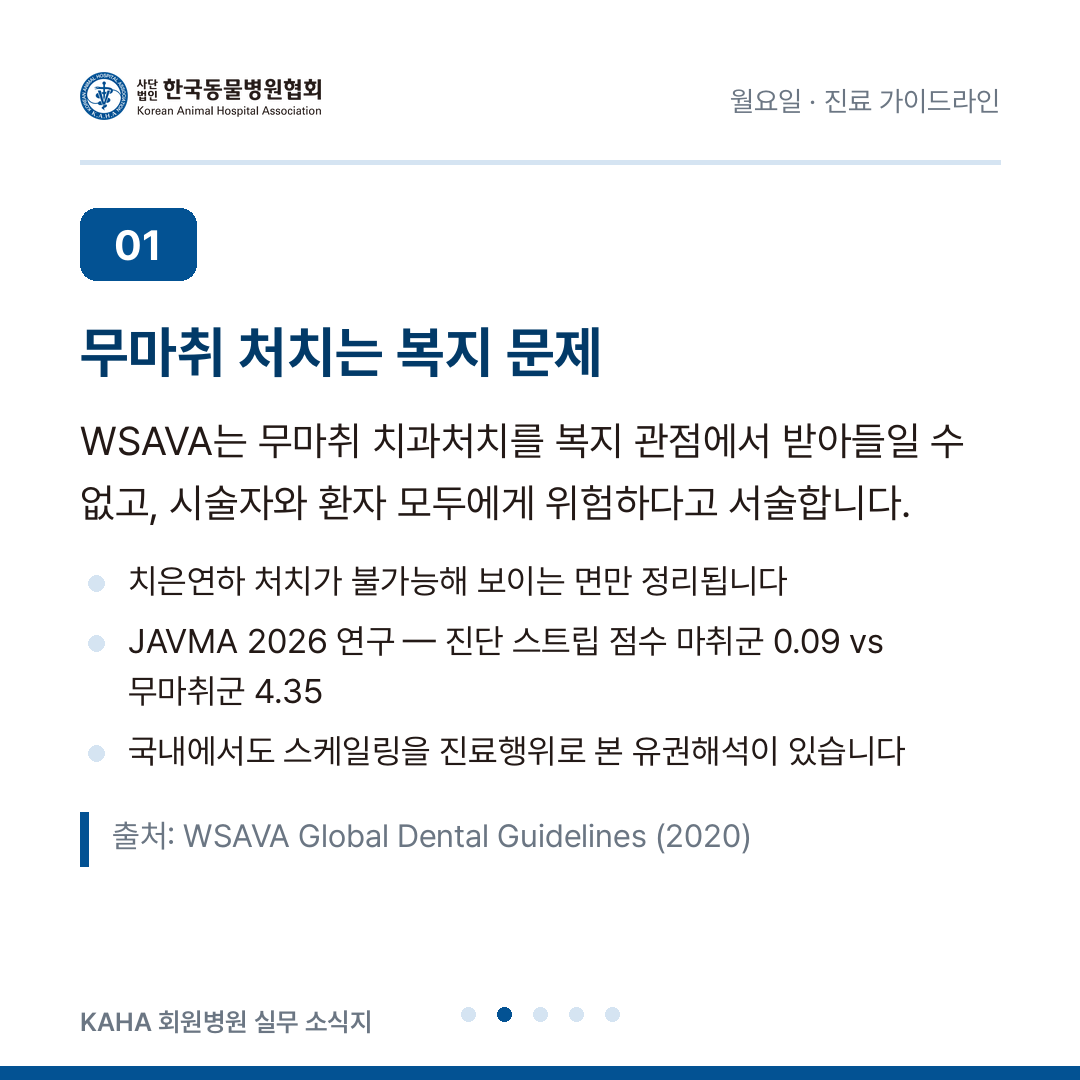
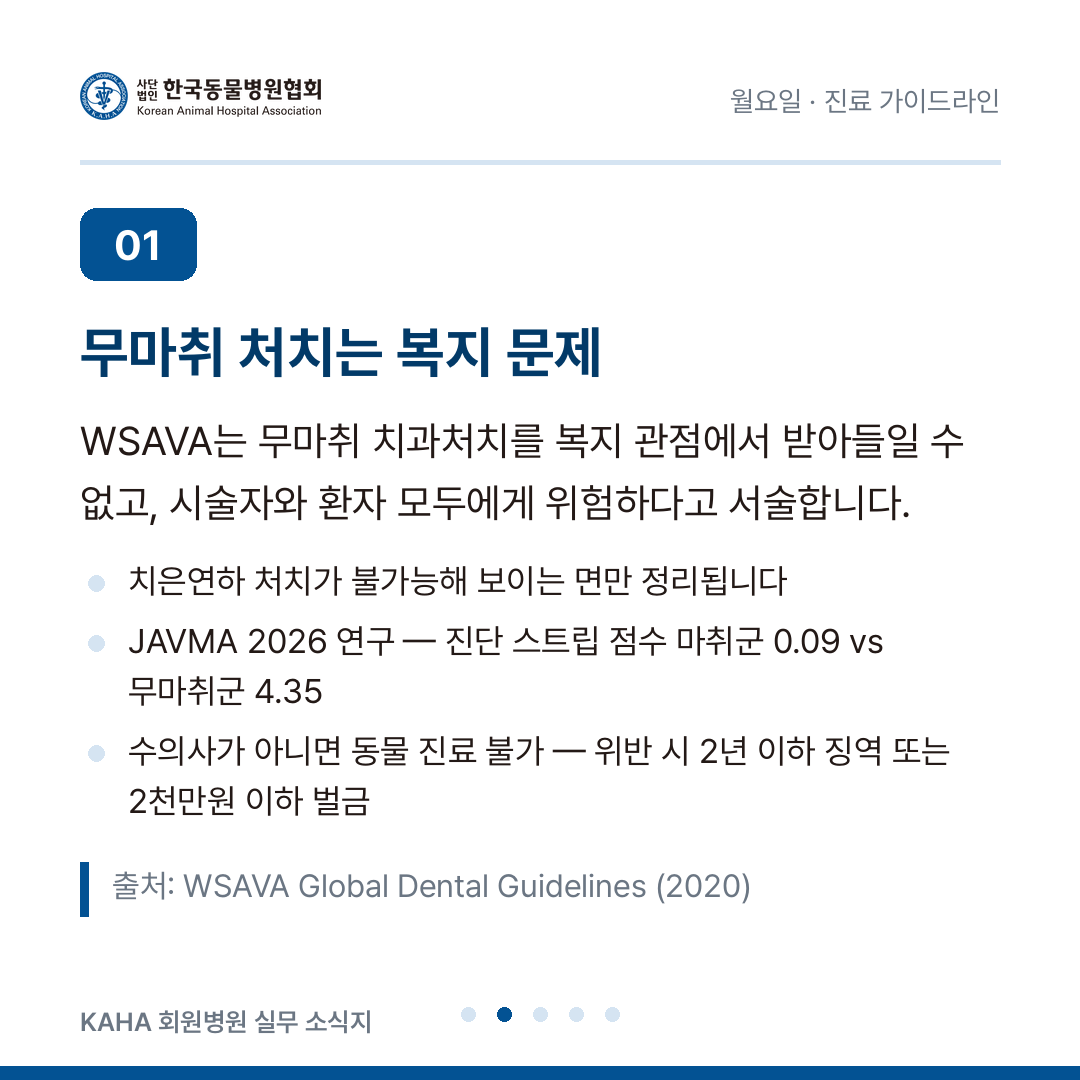
수의사법 시행령 확보 — 8/17 오류 정정 및 재발방지 규칙 신설
원장님이 시행령 전문 제공. reference/수의사법시행령.md로 저장.
이제 법·시행령·시행규칙 3단 전부 보유.

시행령 대조로 발견한 오류 1건 정정:
- 8/17 무면허 진료 예외를 "시행규칙 제8조의 두 가지뿐"으로 단정했으나
  틀림. 시행령 제12조에 4유형(학생 실습 / 학생 봉사활동 / 축산농가
  자가 사육 가축 / 시행규칙이 정한 비업무 무상 진료)이 있고 시행규칙
  제8조는 그중 제4호의 세부. 4유형 전체를 소개하는 문장으로 교체.
  결론(미용업소 스케일링은 예외 아님)은 유지.
- 원인: 시행규칙만 보고 시행령을 안 봄.

- 8/17 카드에 본문에서 뺐던 미검증 유권해석 문구가 남아 있어 교체.

시행령으로 확정해 추가한 내용:
- 진료부 위반은 과태료뿐 아니라 면허효력 정지 사유 (법 제32조②6 →
  시행령 제20조의2①6). 8/21에 추가. 경각심이 크게 다른 정보.
- 고통 감소 조치 없는 시술도 면허정지 사유 (시행령 제20조의2①2).
  8/17에 추가.

재발 방지 — README에 「법령 인용 원칙」 신설:
routine이 매일 README를 읽으므로 여기에 규칙을 박음.
1. 조문 인용은 reference/ 원문 대조, 검색 요약은 근거로 쓰지 않음
2. 법→시행령→시행규칙 3단을 함께 확인
3. reference/에 없는 법령은 단정하지 말고 본문에서 빼거나 확인 요청
4. 기존 기록과 검색이 충돌하면 원문 대조 전까지 뒤집지 않음

확인요청 1-6 신설: 수의사법 외 법령(근로기준법·근로자퇴직급여
보장법·부가가치세법)의 조문 19건을 표로 정리해 일괄 확인 요청.
특히 근로기준법 시행령 [별표 1]은 5인 미만 적용표 전체의 근거.

Changed region(s): [[0.0611, 0.6722, 0.8861, 0.8556]]

diff --git a/reference/수의사법시행령.md b/reference/수의사법시행령.md
@@ -1,0 +1,132 @@
+# 수의사법 시행령 (발췌 — 동물병원 실무 관련 조문)
+
+**[시행 2024. 7. 24.] [대통령령 제34737호, 2024. 7. 23., 일부개정]**
+소관: 농림축산식품부 반려산업동물의료팀 · 출처: 국가법령정보센터(law.go.kr)
+저장일: 2026-08-14 (원장 제공 원문)
+
+> 소식지 집필 시 **이 파일을 1차 근거로 사용**합니다.
+> **법 → 시행령 → 시행규칙 3단 구조를 반드시 함께 확인**하십시오. 시행규칙만 보고 "이것뿐"이라고 쓰면 시행령에 있는 다른 유형을 놓칩니다(실제 발생한 오류).
+
+---
+
+## 제2조(정의) — 「동물」의 범위
+
+법 제2조제2호의 "대통령령으로 정하는 동물":
+1. 노새·당나귀
+2. 친칠라·밍크·사슴·메추리·꿩·비둘기
+3. 시험용 동물
+4. 그 밖에 **포유류·조류·파충류 및 양서류**
+
+## 제12조(수의사 외의 사람이 할 수 있는 진료의 범위)  ★중요
+
+법 제10조 단서의 "대통령령으로 정하는 진료" = **다음 4가지**
+
+1. **수의학 전공 학생**이 수의사 자격을 가진 **지도교수의 지시·감독**을 받아 전공 분야 관련 **실습**을 하기 위해 하는 진료행위
+2. 제1호의 학생이 지도교수 또는 동물진료업 종사 수의사의 지시·감독을 받아 하는 **봉사활동 목적** 진료행위
+   - 가. 축산 농가에서 하는 봉사활동
+   - 나. 「동물보호법」 제35조 동물보호센터 / 제36조 지정 동물보호센터 / 제37조 신고된 민간동물보호시설에서 하는 봉사활동
+3. **축산 농가에서 자기가 사육하는 가축**에 대한 진료행위 (축산법 제22조①4 허가 대상, 제22조③ 등록 대상, 그 밖에 농식품부장관 고시 가축)
+4. **농림축산식품부령으로 정하는 비업무로 수행하는 무상 진료행위**
+   → **시행규칙 제8조**: ① 고시된 **도서·벽지**에서 이웃 양축 농가 사육 동물에 대한 비업무 무상 진료 ② **사고 등으로 부상당한 동물의 구조를 위한 응급처치**
+
+> **⚠ 집필 시 주의**: 시행규칙 제8조의 2가지는 **제4호의 세부 내용**일 뿐, 무면허 진료 예외 전체가 아닙니다. "시행규칙 제8조가 정한 두 가지뿐"이라고 쓰면 **틀립니다.** (2026-08-14 실제 발생한 오류)
+> 다만 위 4가지 어디에도 **미용업소·카페 등에서 비수의사가 하는 스케일링**은 해당하지 않으므로, 무면허 진료라는 결론 자체는 유지됩니다.
+
+## 제12조의2(처방전을 발급하지 못하는 부득이한 사유)
+
+법 제12조의2제2항 단서의 "대통령령으로 정하는 부득이한 사유" = **응급을 요하는 동물의 수술 또는 처치**
+
+## 제13조(동물병원의 시설기준)
+
+① 시설기준
+1. **개설자가 수의사인 동물병원**: **진료실·처치실·조제실**, 그 밖에 청결유지와 위생관리에 필요한 시설. 다만 축산 농가 사육 가축(소·말·돼지·염소·사슴·노새·당나귀·닭·오리·메추리·꿩·꿀벌) 및 수생동물에 대한 **출장진료만** 하는 동물병원은 진료실과 처치실을 갖추지 않을 수 있음.
+2. **개설자가 수의사가 아닌 동물병원**: 진료실·처치실·조제실 + **임상병리검사실** + 청결·위생 시설. 다만 지자체가 동물보호센터 동물만 진료·처치하기 위해 설치하는 동물병원은 임상병리검사실 면제.
+② 세부 기준은 농림축산식품부령 → **시행규칙 제8조의2 및 [별표 1]**
+
+> **참고**: **입원실은 법정 시설기준에 포함되어 있지 않습니다.** 입원 진료를 하더라도 시설기준상 필수 요건은 진료실·처치실·조제실입니다.
+
+## 제13조의4(동물진료정보시스템 개발·운영 사업)
+
+동물진료법인 부대사업(법 제22조의3①3)의 범위:
+1. **진료부(진단서 및 증명서를 포함한다)를 전산으로 작성·관리하기 위한 시스템**의 개발·운영 사업
+2. 의료기기로 촬영한 **영상기록을 저장·전송하기 위한 시스템**의 개발·운영 사업
+
+## 제18조의2 ～ 제18조의5(윤리위원회)  [전문개정 2024. 7. 23.]
+
+- **심의·의결 사항**: ① 진료기술상 판단이 필요해 농식품부장관이 의견 제시를 요청한 사항 ② **수의사로서의 품위를 손상시키는 행위 해당 여부**(법 제32조②7) ③ 정관으로 정하는 사항
+- **구성**: 위원장 1명 포함 **11명**. 위원장은 위원 중에서 수의사회장이 위촉.
+- **위원 자격**: ① 면허 후 수의업무 **10년 이상** 경력자 ② **수의사가 아닌 사람**(법률·윤리·동물복지·언론·소비자 권익 분야) — **②가 4명 이상 포함되어야 함**
+- **임기**: 3년, 1회 연임 가능
+- **제척·기피·회피** 규정 있음(제18조의3)
+- **의결**: 재적 2/3 출석, 출석 2/3 찬성. 원격영상회의 가능.
+- 품위손상 여부 심의 시 **당사자에게 의견 진술 기회를 주어야 함**
+
+## 제20조(지도와 명령)
+
+법 제30조제1항에 따라 할 수 있는 지도·명령:
+1. 수의사 또는 동물병원 기구·장비의 대국민 지원 지도와 **동원 명령**
+2. 공중위생상 위해 방지 및 동물 질병 예방·적정 진료를 위한 **시설·업무개선 지도와 명령**
+3. 가축전염병 확산이나 인수공통감염병으로 인한 공중위생상 중대한 위해 발생 방지를 위한 지도·명령
+
+## 제20조의2(과잉진료행위 등)  ★중요 — 면허효력 정지 사유
+
+### ① 법 제32조제2항제6호("과잉진료행위나 그 밖에 동물병원 운영과 관련된 행위")
+
+1. **불필요한 검사·투약 또는 수술 등 과잉진료행위**를 하거나 **부당하게 많은 진료비를 요구**하는 행위
+2. **정당한 사유 없이 동물의 고통을 줄이기 위한 조치를 하지 아니하고 시술하는 행위**나 이에 준하는 행위로서 농림축산식품부령으로 정하는 행위
+   → **시행규칙 제23조**: ① 소독 등 병원 내 감염 방지 조치 없이 시술해 질병 악화 ② **예후가 불명확한 수술·처치 시 위험성 및 비용을 알리지 않고 시행** ③ 유효기간 지난 약제 사용 또는 응급진료 필요 동물 방치로 질병 악화
+4. 동물병원 **개설자격이 없는 자에게 고용되어** 동물을 진료하는 행위
+6. **법 제11조(진료 거부), 제12조제1항·제3항(진단서 등), 제13조제1항·제2항(진료부 및 검안부), 제17조제1항(개설)을 위반하는 행위**
+
+> **⚠ 실무 함의**: **진료부 작성·보존 의무 위반은 과태료(법 제41조②2)에 그치지 않고 면허효력 정지 사유**이기도 합니다(법 제32조②6 → 시행령 제20조의2①6). 진단서 발급 거부, 진료 거부도 마찬가지입니다.
+
+### ② 법 제32조제2항제7호("수의사로서의 품위를 손상시키는 행위") [신설 2024. 7. 23.]
+
+1. **허위광고 또는 과대광고 행위**
+2. 다른 동물병원을 이용하려는 동물소유자등을 **자신의 동물병원으로 유인하거나 유인하게 하는 행위**
+3. 「약사법」상 **품목허가·신고를 받지 않은 의약품등을 진료에 사용하는 행위**
+
+## 제20조의4(과징금의 부과 등)
+
+① 과징금 금액은 **[별표 1]**(위반행위별 과징금의 금액)
+③ 통지를 받은 자는 **통지받은 날부터 30일 이내** 납부
+
+## 제21조(업무의 위탁)
+
+① **수의사 연수교육** → 수의사회에 위탁
+② **동물 진료의 분류체계 표준화**(법 제20조의3) → 수의사회에 위탁
+③ 진료비용 등 현황 조사·분석(법 제20조의4①) → 비영리법인·소비자단체·공공기관·정부출연연구기관 등에 위탁 가능
+
+## 제23조(과태료의 부과기준)
+
+법 제41조제1항 및 제2항에 따른 과태료의 부과기준은 **[별표 2]**.
+
+> **미확보**: [별표 2]의 위반행위별 1차·2차·3차 금액표는 본문에 포함되지 않았습니다. 개별 금액이 필요하면 별표 원문을 확인해야 합니다.
+
+---
+
+## 별표 목록
+
+| 별표 | 내용 |
+|---|---|
+| [별표 1] | 위반행위별 과징금의 금액 (제20조의4제1항 관련) |
+| [별표 2] | 과태료의 부과기준 (제23조 관련) |
+
+---
+
+## 3단 구조 대조표 (집필 시 필수 확인)
+
+| 주제 | 법 | 시행령 | 시행규칙 |
+|---|---|---|---|
+| 무면허 진료 예외 | 제10조 단서 | **제12조 (4유형)** | 제8조 (제12조 제4호의 세부) |
+| 처방전 발급 | 제12조의2 | 제12조의2(부득이한 사유=응급 수술·처치) | 제11조, 제12조의2 |
+| 진료부·검안부 | 제13조 | — (제20조의2①6에서 위반 시 면허정지 연결) | **제13조 (기재사항·1년 보존)** |
+| 수술등중대진료 설명·동의 | 제13조의2 | — | **제13조의2 (범위·구두설명·별지 제11호서식·1년)** |
+| 동물병원 시설기준 | 제17조⑤ | **제13조** | 제8조의2 및 [별표 1] |
+| 예상 진료비용 고지 | **제19조** | — | 제18조의2 (구두) |
+| 진료비용 게시 | **제20조** | — | 제18조의3 (대상·방법, 2025.7.1 강화) |
+| 발급수수료 | 제20조의2 | — | 제19조 (처방전 상한 5천원) |
+| 면허효력 정지 | 제32조② | **제20조의2 (과잉진료·품위손상 유형)** | 제23조 |
+| 과징금 | 제33조의2 | 제20조의4 및 [별표 1] | 제25조의2 (징수절차) |
+| 연수교육 | 제34조 | 제21조① (수의사회 위탁) | 제26조 (연 10시간) |
+| 과태료 | 제41조 | 제23조 및 [별표 2] | — |

diff --git a/factcheck/확인요청.md b/factcheck/확인요청.md
@@ -41,6 +41,38 @@
 - **결과: 수의사법 제13조 제3항** — "진료부 또는 검안부는 「전자서명법」에 따른 전자서명이 기재된 전자문서로 작성·보관할 수 있다"
 - 시행규칙이 아니라 **법률 본문**에 있었습니다. 본문에 조문을 명시했습니다.
 
+### 1-6. ★ 수의사법 외 법령의 조문 번호 — 일괄 확인 요청
+
+**왜**: 수의사법·시행령·시행규칙은 원문을 확보해 전수 대조했지만(`reference/` 폴더), **아래 법령은 원문이 없어 조문 번호를 검색 결과에 의존**하고 있습니다. 수의사법에서 실제로 조문 번호 오류가 2건 나왔으므로, 같은 위험이 남아 있습니다.
+
+**어떻게**: law.go.kr에서 각 법령을 열어 아래 조문의 **제목만** 확인해 주시면 됩니다. 제목이 맞으면 조문 번호가 맞는 것입니다. 조문 전문을 붙여넣어 주시면 `reference/`에 추가하겠습니다.
+
+| 호 | 법령 | 인용한 조문 | 확인할 조문 제목 |
+|---|---|---|---|
+| 8/18 | 근로자퇴직급여 보장법 | **제4조** | 퇴직급여제도의 설정 (1년 미만·주 15시간 미만 제외 단서) |
+| 8/18 | 〃 | **제9조** | 퇴직금의 지급 등 (14일 이내, IRP 이전) |
+| 8/18 | 〃 | **제10조** | 퇴직금의 시효 (3년) |
+| 8/18 | 〃 | **제44조** | 벌칙 (퇴직급여 미지급) |
+| 8/18 | 〃 시행령 | **제3조** | 퇴직금의 중간정산 사유 |
+| 8/18 | 근로기준법 | **제2조 제1항 제6호** | 정의 — 평균임금 |
+| 8/18 | 〃 | **제37조** | 미지급 임금에 대한 지연이자 |
+| 8/25 | 근로기준법 | **제50조** | 근로시간 (제3항 대기시간) |
+| 8/25 | 〃 | **제53조** | 연장 근로의 제한 |
+| 8/25 | 〃 | **제54조** | 휴게 |
+| 8/25 | 〃 | **제55조** | 휴일 (제1항 주휴, 제2항 공휴일) |
+| 8/25 | 〃 | **제56조** | 연장·야간 및 휴일 근로 |
+| 8/25 | 〃 | **제18조 제3항** | 단시간근로자의 근로조건 (주 15시간 미만 제외) |
+| 8/25 | 〃 | **제42조** | 계약 서류의 보존 (3년) |
+| 8/25 | 〃 | **제48조** | 임금대장 및 임금명세서 |
+| 8/25 | 〃 시행령 | **제22조 · 제27조** | 보존 대상 서류 / 임금대장 기재사항 |
+| 8/25 | 〃 시행령 | **[별표 1]** | 상시 4명 이하 사업장에 적용하는 법 규정 |
+| 8/27 | 부가가치세법 시행령 | **제35조** | 면세하는 의료보건 용역의 범위 |
+| 8/27 | 〃 | **제81조** | 공통매입세액 안분 계산 |
+
+**특히 8/25의 시행령 [별표 1]**은 5인 미만 적용표 전체의 근거라 한 번 확인해 주시면 좋겠습니다. 이 표가 틀리면 회원병원이 잘못된 노무 판단을 하게 됩니다.
+
+**반영**: 확인되는 대로 `reference/`에 추가하고, 틀린 조문은 정정하겠습니다. 확인이 어려우면 해당 조문 번호를 본문에서 빼고 제도명으로만 쓰겠습니다.
+
 ---
 
 ## 우선순위 2 — 확인되면 내용을 되살릴 항목 (지금은 삭제 상태)
@@ -129,5 +161,6 @@
 **진행 방법**: 위 항목 중 확인되는 것만 알려주시면 됩니다. 1-1처럼 조문을 그대로 붙여넣어 주시면 가장 정확합니다.
 
 **갱신 이력**
+- 2026-08-14 (3차): **수의사법 시행령** 전문 확보(reference/수의사법시행령.md). 시행령 대조 과정에서 **8/17 오류 1건 추가 발견·정정** — 무면허 진료 예외를 "시행규칙 제8조의 2가지뿐"으로 단정했으나 실제로는 **시행령 제12조에 4유형**이 있었음(시행규칙 제8조는 제4호의 세부). 진료부 위반이 **면허효력 정지 사유**이기도 하다는 점(시행령 제20조의2①6)을 8/21에 추가. 재발 방지를 위해 **README에 「법령 인용 원칙」 신설**. 수의사법 외 법령의 조문 번호 일괄 확인 요청(1-6) 추가.
 - 2026-08-14 (2차): 수의사법·시행규칙 **전문 확보**하여 reference/ 폴더에 저장. 1-4·1-5 해결, 2-1 우선순위 하향. 원문 대조 과정에서 **조문 번호 오류 2건**(진료비 게시 제20조의2→제20조, 예상비용 고지 제20조의3→제19조)과 **내용 오류 1건**(원내 투약 시 진료부 기재→수의사처방관리시스템 입력)을 발견해 정정. 진단서·처방전 부본 3년, 게시 방법 강화(2025.7.1), 2026.11.13 시행 예정 개정을 새로 반영.
 - 2026-08-14: 1-1(진료부 보존기간) 해결 — 시행규칙 제13조 원문 확인, **1년** 확정. 진료부·검안부 기재사항, 동물보호법 제15조, 별지 제11호서식, 동의서 기산점까지 함께 확정되어 8/19·8/21·8/26에 반영. 확인 과정에서 드러난 새 항목 1-4·1-5 추가.

diff --git a/README.md b/README.md
@@ -28,6 +28,33 @@
 4. `archive.json`에 날짜를 추가하고 `latest`를 갱신합니다.
 5. main에 커밋 & 푸시하면 Vercel이 자동 배포합니다.
 
+## 법령 인용 원칙 (필수 — 2026-08-14 신설)
+
+**법령 조문·조문 번호·수치를 인용할 때는 `reference/` 폴더의 원문을 대조합니다. 검색엔진 요약은 조문의 근거로 쓰지 않습니다.**
+
+이 규칙은 실제 사고에서 나왔습니다. 검색 결과가 반복적으로 같은 값을 반환해 그것을 근거로 기존 기록까지 뒤집었으나, 원문 확인 결과 **검색이 틀렸고 원래 기록이 맞았습니다**(진료부 보존기간 1년을 3년으로 잘못 정정). 같은 검색엔진의 응답은 여러 번 조회해도 독립 출처가 아닙니다.
+
+### 보유 중인 법령 원문 (`reference/`)
+
+| 파일 | 법령 |
+|---|---|
+| `reference/수의사법.md` | 수의사법 [법률 제20087호] + 2026.11.13 시행 예정 개정 |
+| `reference/수의사법시행령.md` | 수의사법 시행령 [대통령령 제34737호] |
+| `reference/수의사법시행규칙.md` | 수의사법 시행규칙 [농림축산식품부령 제765호] |
+
+### 절차
+
+1. **3단 구조를 함께 확인한다.** 법 → 시행령 → 시행규칙. 시행규칙만 보고 "이것뿐"이라고 쓰면 시행령에 있는 다른 유형을 놓칩니다. (실제 오류: 무면허 진료 예외를 시행규칙 제8조의 2가지로 단정했으나 시행령 제12조에 4유형이 있었음)
+2. **조문 번호는 `reference/수의사법시행규칙.md` 말미의 「자주 틀리는 조문 번호」 표와 `수의사법시행령.md`의 「3단 구조 대조표」로 교차 확인한다.** (실제 오류: 진료비 게시 제20조→제20조의2, 예상비용 고지 제19조→제20조의3으로 잘못 인용)
+3. **`reference/`에 없는 법령**(근로기준법·부가가치세법·폐기물관리법 등)의 조문·수치는 **원문 대조 없이 단정하지 않는다.** 다음 중 하나를 택한다.
+   - 해당 내용을 **본문에서 뺀다** (기본)
+   - **원장에게 확인을 요청**하고, 확인될 때까지 싣지 않는다 → `factcheck/확인요청.md`에 **어디서 무엇을 볼지** 구체적으로 적는다
+4. **기존 기록과 새 검색 결과가 충돌하면, 원문 대조 전까지 기존 기록을 뒤집지 않는다.**
+
+### 확인 요청 방법
+
+확인이 필요한 항목은 `factcheck/확인요청.md`에 우선순위별로 기록하고, 각 항목마다 **① 왜 필요한지 ② 어디서(정확한 사이트·메뉴·조문) ③ 무엇을 볼지 ④ 확인되면 어떻게 반영할지**를 적습니다. 원장이 조문을 그대로 붙여넣어 주면 `reference/`에 추가하고 본문에 반영합니다.
+
 ## 발행 전 팩트체크 (필수 절차)
 
 모든 호는 발행 전에 다음 검증을 거칩니다. 창간 준비 검증에서도 실제로 오류가 발견·정정되었습니다(케타민 마약류 분류, NIMS 보고 기한, 진료비 게시 항목 수 — 각 호의 factcheck 파일 참고).

diff --git a/factcheck/2026-08-17.md b/factcheck/2026-08-17.md
@@ -40,3 +40,21 @@
 - **발표 연도 정정**: 초안 구상 단계에서 "2019년 가이드라인"으로 잡았으나, 실제로는 2017년 최초 공개 / 2020년 JSAP 게재임을 확인해 본문을 2020년판 기준으로 정정.
 - **출처 귀속 정정**: 치주질환 병기 0～4단계, 탐침 깊이 기준, 발치 시 방사선 요구를 WSAVA 권고로 쓰지 않고 AVDC·AAHA 출처로 명시. 본문에 「출처를 구분해 주십시오」 표를 추가.
 - **유병률 수치 삭제**: 자료 간 연령 기준 불일치로 해외 유병률 수치를 본문에서 제외하고 국내 역학 자료로 대체.
+
+## 시행령 대조 (2026-08-14, 3차)
+
+원장 제공 **수의사법 시행령**(대통령령 제34737호) 원문으로 재검증했습니다.
+
+| # | 항목 | 판정 | 근거 |
+|---|---|---|---|
+| 19 | 무면허 진료 금지 및 벌칙 — 법 제10조, **2년 이하 징역 또는 2천만원 이하 벌금**(제39조①2) | ✅ 확인 (원문 대조) | 수의사법 제10조·제39조 |
+| 20 | 수의사가 아닌 사람의 진료 허용 범위는 **시행령 제12조의 4가지 유형** (학생 실습 / 학생 봉사활동 / 축산농가 자가 사육 가축 / 시행규칙이 정한 비업무 무상 진료) | ✅ 확인 (원문 대조) | 수의사법 시행령 제12조 |
+| 21 | 정당한 사유 없이 **동물의 고통을 줄이기 위한 조치 없이 시술**하는 행위는 면허효력 정지 사유 | ✅ 확인 (원문 대조) | 법 제32조②6, 시행령 제20조의2①2 |
+
+## 발행 전 정정 사항 (3차 — 중대)
+
+- **무면허 진료 예외 범위 오류 정정**: 본문에 "수의사가 아닌 사람에게 허용되는 진료는 **시행규칙 제8조가 정한 두 가지뿐**"이라고 썼으나 **틀렸습니다.** 시행령 제12조에 **4가지 유형**이 있고, 시행규칙 제8조는 그중 **제4호(비업무 무상 진료)의 세부**일 뿐입니다. 4유형 전체를 소개하는 문장으로 교체했습니다.
+  - 원인: 시행규칙만 확인하고 시행령을 확인하지 않음. **법 → 시행령 → 시행규칙 3단 구조를 함께 봐야 한다**는 규칙을 README에 신설했습니다.
+  - 결론(미용업소 스케일링은 예외에 해당하지 않음)은 4유형 어디에도 해당하지 않으므로 유지됩니다.
+- **미검증 문구 카드에서 제거**: 본문에서 뺀 "2015년 농식품부 유권해석" 문구가 카드 bullet에 남아 있어 확정 조문(무면허 진료 벌칙)으로 교체했습니다.
+- **면허효력 정지 사유 추가**: 시행령 제20조의2 제1항 제2호로 확정되어 본문에 추가했습니다.

diff --git a/factcheck/2026-08-21.md b/factcheck/2026-08-21.md
@@ -37,3 +37,14 @@
 - (경위): 1차 작성 시 검색 요약을 근거로 "3년"이라 단정하고 기존 기록까지 정정했으나, 재검토 결과 그 근거가 부실했습니다. ① 모든 근거가 동일 검색엔진의 산문 요약이고 조문 원문은 한 번도 열람하지 못했으며(WebFetch가 law.go.kr 포함 전 도메인 차단), ② 한 응답은 "3연간"으로 깨져 나올 만큼 신뢰도가 낮았고, ③ 저장소 기존 기록과 현장 인식은 "1년"입니다. 저장소 원칙("확실하지 않으면 싣지 않는다")에 따라 **본문에서 수치를 제거하고 원문 확인을 안내**하는 형태로 바꿨습니다. 확인되면 그때 확정 서술로 되돌립니다.
   - 참고: 발행된 `issues/2026-08-12.md` 본문은 "**동의서**는 1년간 보존 의무"라고만 서술해 본문 자체에는 오류가 없습니다. 잘못된 것은 팩트체크 기록의 항목 표기였습니다.
 - **입법 항목 상태 표기 강제**: 헌법소원·국회 법안·정부 과제를 하나의 표로 묶고 각각의 상태를 명시해, 어느 것도 시행 중인 법으로 읽히지 않도록 구성했습니다.
+
+## 시행령 대조 (2026-08-14, 3차)
+
+| # | 항목 | 판정 | 근거 |
+|---|---|---|---|
+| 15 | **진료부 작성·보존 의무 위반은 면허효력 정지 사유이기도 함** (과태료와 별개) | ✅ 확인 (원문 대조) | 법 제32조②6 → 시행령 제20조의2①6 (법 제11조·제12조①③·제13조①②·제17조① 위반이 함께 열거) |
+| 16 | 과태료 부과기준은 시행령 제23조 및 **[별표 2]** | ⚠ 별표 본문 미확보 — 위반 유형별 1·2·3차 금액은 여전히 미확인. 본문은 법정 상한(100만원 이하)만 서술 | 시행령 제23조 |
+
+## 발행 전 정정 사항 (3차)
+
+- **면허효력 정지 사유 추가**: 진료부 위반이 과태료에 그치지 않는다는 점을 시행령 원문으로 확인해 본문에 추가했습니다. 실무상 경각심이 크게 다른 정보입니다.

diff --git a/issues/2026-08-21.md b/issues/2026-08-21.md
@@ -7,6 +7,8 @@
 
 수의사법 제13조는 수의사가 **진료부 또는 검안부를 갖추어 두고 진료·검안한 사항을 기록하고 서명**하도록 하고, 기재사항·보존기간·보존방법은 시행규칙에 위임하고 있습니다. **갖추어 두지 않거나, 기록하지 않거나, 거짓으로 기록하면 100만원 이하의 과태료**입니다(제41조 제2항 제2호).
 
+과태료로 끝나지 않는다는 점도 알아두셔야 합니다. **진료부 작성·보존 의무 위반은 면허효력 정지 사유이기도 합니다**(제32조 제2항 제6호, 시행령 제20조의2 제1항 제6호). 같은 항에 진료 거부(제11조), 진단서 등 발급 및 거부 금지(제12조 제1항·제3항), 무신고 개설(제17조 제1항) 위반이 함께 묶여 있습니다.
+
 **보존기간은 1년입니다.** 시행규칙 제13조는 진료부와 검안부에 적어야 할 사항을 열거하면서 "**1년간 보존하여야 한다**"고 규정합니다.
 
 수술등중대진료 동의서도 1년이지만 기산점이 다릅니다. 동의서는 **동의를 받은 날부터** 1년입니다(시행규칙 제13조의2 제3항). 진료부는 진료 기록 기준, 동의서는 동의일 기준으로 각각 관리하셔야 합니다.
@@ -99,7 +101,7 @@
 
 ## 출처
 
-- 국가법령정보센터(law.go.kr): 수의사법 제13조, 시행규칙 제13조(진료부 및 검안부의 기재사항)·제13조의2(수술등중대진료의 범위 등)
+- 국가법령정보센터(law.go.kr): 수의사법 제13조·제32조·제41조, 시행령 제20조의2, 시행규칙 제9조·제11조·제13조·제13조의2
 - 농림축산식품부 제6차 농식품 규제혁신 전략회의 보도자료(2024.10.14) — mafra.go.kr
 - 수의사법 헌법소원 및 개정안 관련 보도(법률신문 등)
 
